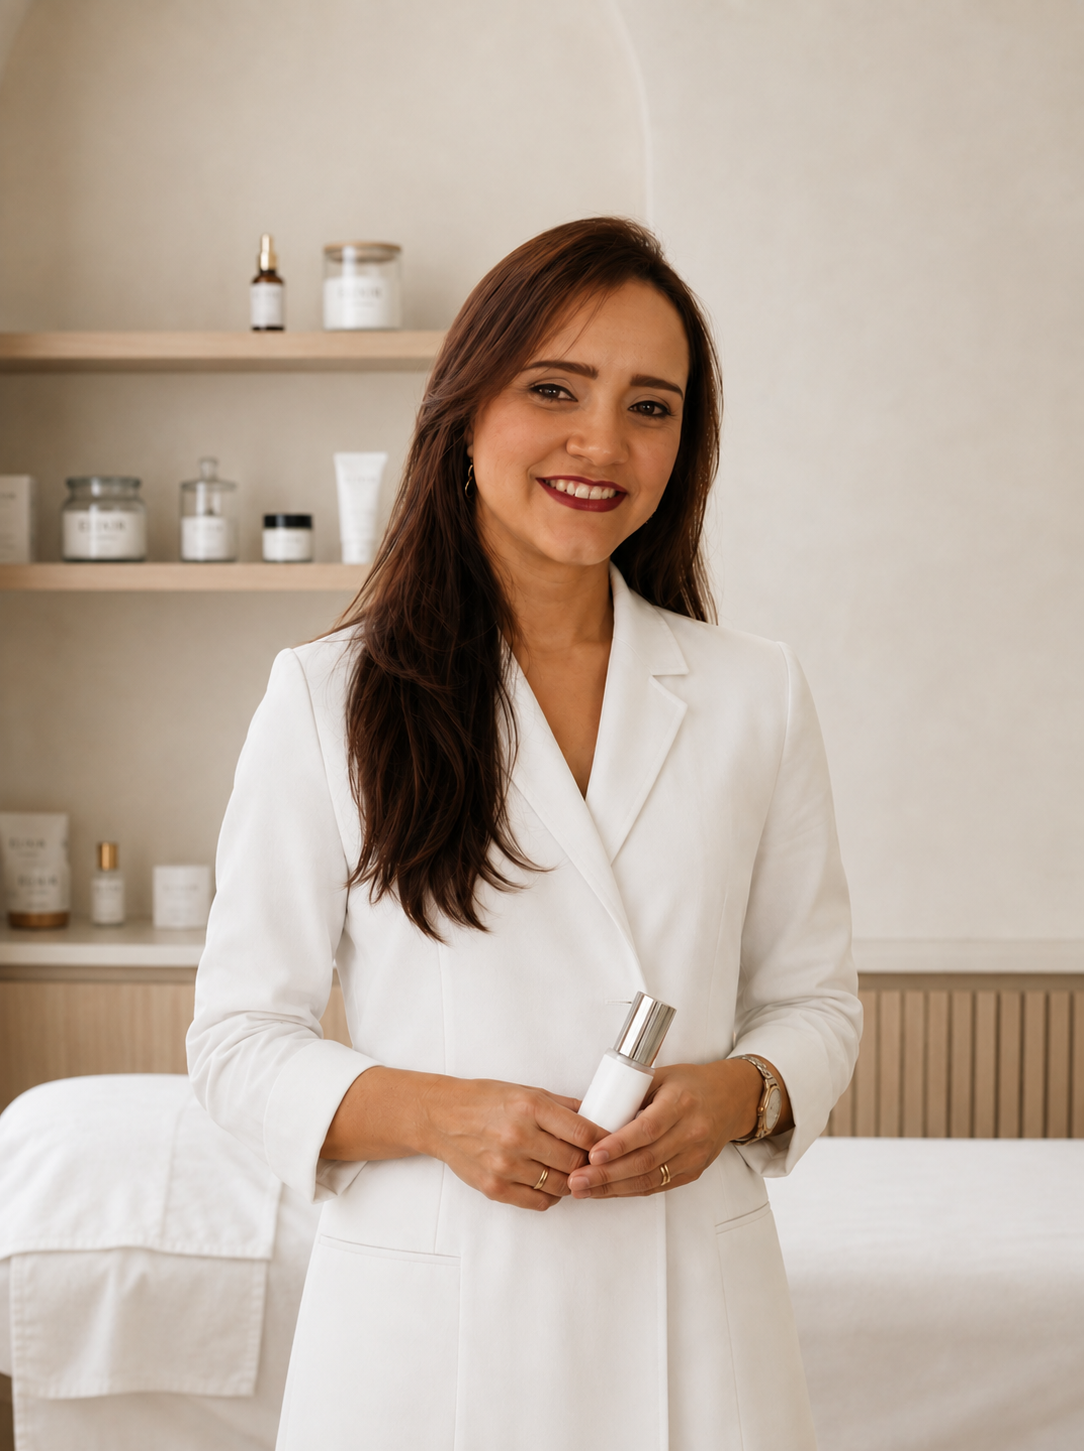
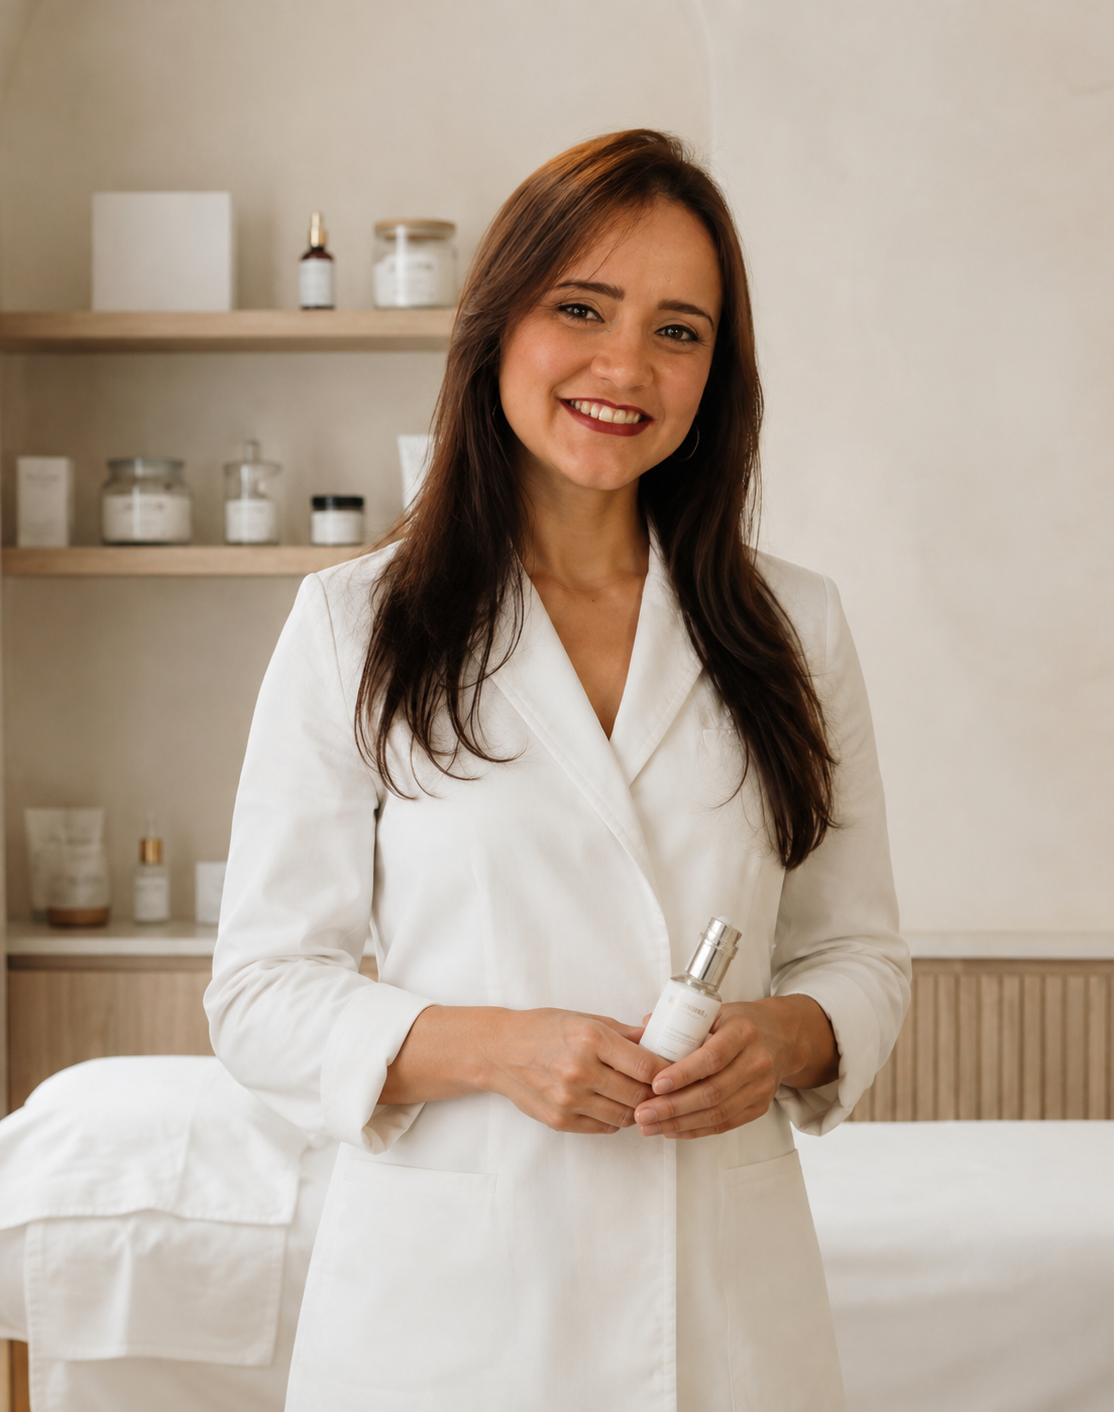
style: (page principal): adiciona imagem da prestadora de serviços

diff --git a/app/page.tsx b/app/page.tsx
@@ -1,10 +1,20 @@
 // ElixirLanding.tsx
-import Link from 'next/link';
-import React from 'react';
+import Image from "next/image";
+import Link from "next/link";
+import React from "react";
 
 // ─── Icons (inline SVGs) ─────────────────────────────────────────
 const MenuIcon = ({ className }: { className?: string }) => (
-  <svg className={className} width="24" height="24" viewBox="0 0 24 24" fill="none" stroke="currentColor" strokeWidth="2" strokeLinecap="round">
+  <svg
+    className={className}
+    width="24"
+    height="24"
+    viewBox="0 0 24 24"
+    fill="none"
+    stroke="currentColor"
+    strokeWidth="2"
+    strokeLinecap="round"
+  >
     <line x1="3" y1="6" x2="21" y2="6" />
     <line x1="3" y1="12" x2="21" y2="12" />
     <line x1="3" y1="18" x2="15" y2="18" />
@@ -12,7 +22,17 @@ const MenuIcon = ({ className }: { className?: string }) => (
 );
 
 const LeafIcon = ({ className }: { className?: string }) => (
-  <svg className={className} width="20" height="20" viewBox="0 0 24 24" fill="none" stroke="currentColor" strokeWidth="1.5" strokeLinecap="round" strokeLinejoin="round">
+  <svg
+    className={className}
+    width="20"
+    height="20"
+    viewBox="0 0 24 24"
+    fill="none"
+    stroke="currentColor"
+    strokeWidth="1.5"
+    strokeLinecap="round"
+    strokeLinejoin="round"
+  >
     <path d="M11 20A7 7 0 0 1 9.8 6.6C13.4 5.4 17.8 7.2 19 10.8c.4 1.2.4 2.6 0 3.8" />
     <path d="M11 20c-1.5-1.5-2-3.5-1.5-5.5" />
     <path d="M20 20c-2.5 0-4.5-1.5-5.5-3.5" />
@@ -20,7 +40,17 @@ const LeafIcon = ({ className }: { className?: string }) => (
 );
 
 const MassageIcon = ({ className }: { className?: string }) => (
-  <svg className={className} width="28" height="28" viewBox="0 0 24 24" fill="none" stroke="currentColor" strokeWidth="1.5" strokeLinecap="round" strokeLinejoin="round">
+  <svg
+    className={className}
+    width="28"
+    height="28"
+    viewBox="0 0 24 24"
+    fill="none"
+    stroke="currentColor"
+    strokeWidth="1.5"
+    strokeLinecap="round"
+    strokeLinejoin="round"
+  >
     <path d="M12 2C6.5 2 2 6.5 2 12s4.5 10 10 10 10-4.5 10-10" />
     <path d="M12 12c-2 0-3.5 1.5-3.5 3.5S10 19 12 19s3.5-1.5 3.5-3.5" />
     <path d="M12 12V2" />
@@ -29,14 +59,34 @@ const MassageIcon = ({ className }: { className?: string }) => (
 );
 
 const AcupunctureIcon = ({ className }: { className?: string }) => (
-  <svg className={className} width="28" height="28" viewBox="0 0 24 24" fill="none" stroke="currentColor" strokeWidth="1.5" strokeLinecap="round" strokeLinejoin="round">
+  <svg
+    className={className}
+    width="28"
+    height="28"
+    viewBox="0 0 24 24"
+    fill="none"
+    stroke="currentColor"
+    strokeWidth="1.5"
+    strokeLinecap="round"
+    strokeLinejoin="round"
+  >
     <circle cx="12" cy="12" r="3" />
     <path d="M12 2v4M12 18v4M2 12h4M18 12h4M4.93 4.93l2.83 2.83M16.24 16.24l2.83 2.83M4.93 19.07l2.83-2.83M16.24 7.76l2.83-2.83" />
   </svg>
 );
 
 const HolisticIcon = ({ className }: { className?: string }) => (
-  <svg className={className} width="28" height="28" viewBox="0 0 24 24" fill="none" stroke="currentColor" strokeWidth="1.5" strokeLinecap="round" strokeLinejoin="round">
+  <svg
+    className={className}
+    width="28"
+    height="28"
+    viewBox="0 0 24 24"
+    fill="none"
+    stroke="currentColor"
+    strokeWidth="1.5"
+    strokeLinecap="round"
+    strokeLinejoin="round"
+  >
     <path d="M12 2a10 10 0 1 0 10 10A10 10 0 0 0 12 2zm0 0v20" />
     <path d="M2 12h20" />
     <circle cx="12" cy="12" r="4" />
@@ -55,13 +105,17 @@ interface ServiceCardProps {
 }
 
 // ─── Sub-components ──────────────────────────────────────────────
-const ServiceCard: React.FC<ServiceCardProps> = ({ icon, duration, title, description, price }) => (
+const ServiceCard: React.FC<ServiceCardProps> = ({
+  icon,
+  duration,
+  title,
+  description,
+  price,
+}) => (
   <div className="bg-surface-container p-6">
     <div className="flex items-start justify-between mb-4">
       <div className="text-on-surface">{icon}</div>
-      <span className="font-label text-secondary text-[11px]">
-        {duration}
-      </span>
+      <span className="font-label text-secondary text-[11px]">{duration}</span>
     </div>
 
     <h3 className="font-serif text-[22px] text-on-surface mb-3 leading-[1.2]">
@@ -73,9 +127,7 @@ const ServiceCard: React.FC<ServiceCardProps> = ({ icon, duration, title, descri
     </p>
 
     <div className="flex items-center justify-between mb-5">
-      <span className="font-label text-outline text-[12px]">
-        A partir de
-      </span>
+      <span className="font-label text-outline text-[12px]">A partir de</span>
       <span className="font-body font-semibold text-[16px] text-on-surface">
         {price}
       </span>
@@ -92,27 +144,27 @@ const ElixirLanding: React.FC = () => {
   const services: ServiceCardProps[] = [
     {
       icon: <MassageIcon />,
-      duration: '60 min',
-      title: 'Massagem Terapêutica',
+      duration: "60 min",
+      title: "Massagem Terapêutica",
       description:
-        'Liberação de tensões musculares profundas utilizando técnicas exclusivas para restaurar a mobilidade e promover relaxamento intenso.',
-      price: 'R$ 180',
+        "Liberação de tensões musculares profundas utilizando técnicas exclusivas para restaurar a mobilidade e promover relaxamento intenso.",
+      price: "R$ 180",
     },
     {
       icon: <AcupunctureIcon />,
-      duration: '45 min',
-      title: 'Acupuntura Estética',
+      duration: "45 min",
+      title: "Acupuntura Estética",
       description:
-        'Estímulo natural da produção de colágeno e harmonização da energia vital (Qi) para um rejuvenescimento facial visível e duradouro.',
-      price: 'R$ 220',
+        "Estímulo natural da produção de colágeno e harmonização da energia vital (Qi) para um rejuvenescimento facial visível e duradouro.",
+      price: "R$ 220",
     },
     {
       icon: <HolisticIcon />,
-      duration: '90 min',
-      title: 'Terapia Holística Integrada',
+      duration: "90 min",
+      title: "Terapia Holística Integrada",
       description:
-        'Sessão completa combinando aromaterapia, cristais e alinhamento energético para restaurar o equilíbrio emocional e físico.',
-      price: 'R$ 350',
+        "Sessão completa combinando aromaterapia, cristais e alinhamento energético para restaurar o equilíbrio emocional e físico.",
+      price: "R$ 350",
     },
   ];
 
@@ -128,7 +180,10 @@ const ElixirLanding: React.FC = () => {
           Caroline
         </h1>
 
-        <Link className="font-label text-[11px] text-on-surface" href={'/admin'}>
+        <Link
+          className="font-label text-[11px] text-on-surface"
+          href={"/admin"}
+        >
           Admin
         </Link>
       </header>
@@ -136,8 +191,10 @@ const ElixirLanding: React.FC = () => {
       {/* ─── Hero Image ─────────────────────────────────────────── */}
       <section className="px-5 pt-2 pb-8">
         <div className="w-full aspect-[3/4] bg-surface-container-high overflow-hidden">
-          <img
-            src="/elixir-hero.jpg"
+          <Image
+            src="/caroline-image.png"
+            width={600}
+            height={600}
             alt="caroline_image"
             className="w-full h-full object-cover"
           />
@@ -151,15 +208,18 @@ const ElixirLanding: React.FC = () => {
         </span>
 
         <h2 className="font-serif text-[36px] text-on-surface leading-[1.1] mb-5">
-         Caroline
+          Caroline
           <br />
           Beleza & Estética
         </h2>
 
         <p className="font-body text-[15px] leading-[1.7] text-on-surface-variant mb-6">
-          Com experiência em cuidados com unhas, cabelos e depilação, ofereço um atendimento personalizado para valorizar sua beleza e proporcionar mais confiança e bem-estar. Cada serviço é realizado com atenção aos detalhes, buscando entregar um resultado bonito, cuidadoso e de qualidade.
+          Com experiência em cuidados com unhas, cabelos e depilação, ofereço um
+          atendimento personalizado para valorizar sua beleza e proporcionar
+          mais confiança e bem-estar. Cada serviço é realizado com atenção aos
+          detalhes, buscando entregar um resultado bonito, cuidadoso e de
+          qualidade.
         </p>
-
       </section>
 
       {/* ─── Divider ────────────────────────────────────────────── */}
@@ -202,7 +262,7 @@ const ElixirLanding: React.FC = () => {
         <h3 className="font-serif text-[20px] tracking-[0.12em] uppercase text-on-surface mb-6">
           Caroline
         </h3>
-      
+
         <p className="font-label text-[11px] text-outline">
           © 2026 todos os direitos reservados.
         </p>
